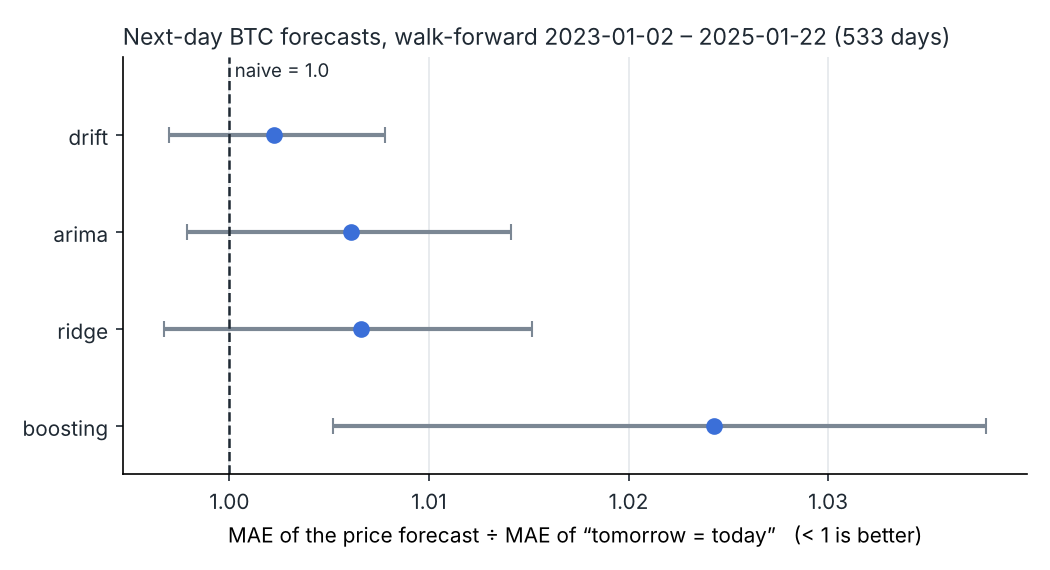
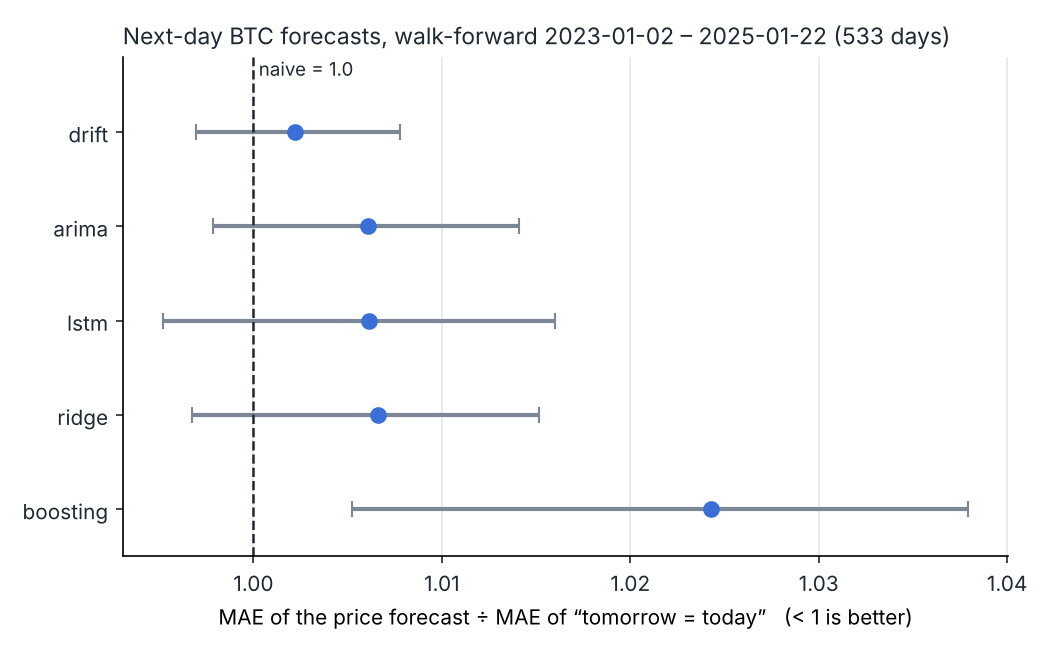
Add LSTM results from a full walk-forward run
Claude-Session: https://claude.ai/code/session_01EweAh3tukoWjEzvTWSQgTX

diff --git a/README.md b/README.md
@@ -1,6 +1,6 @@
 # btc-forecast-eval
 
-**Can you forecast Bitcoin?** Five forecasters — from "tomorrow = today" to ARIMA, linear models and gradient boosting (LSTM optional) — compared on two years of daily BTC/USD with walk-forward evaluation. Plus the three mistakes that make Bitcoin forecasts in tutorials look accurate, each measured next to its honest version.
+**Can you forecast Bitcoin?** Six forecasters — from "tomorrow = today" to ARIMA, linear models, gradient boosting and an LSTM — compared on two years of daily BTC/USD with walk-forward evaluation. Plus the three mistakes that make Bitcoin forecasts in tutorials look accurate, each measured next to its honest version.
 
 🇵🇱 *Czy da się przewidzieć kurs bitcoina? Uczciwe porównanie modeli na danych dziennych z testem kroczącym oraz trzy błędy, przez które prognozy z tutoriali wyglądają na trafne.*
 
@@ -8,8 +8,8 @@
 
 **Key results** (test period 2023-01-02 – 2025-01-22, 533 trading days)
 
-- **No model beats the naive forecast** ("tomorrow's price = today's"). The best, drift, is 0.2% worse on MAE; boosting is 2.4% worse, and that difference is significant.
-- **Direction is a coin flip:** 49.5–51.2% of days called correctly, vs 51.2% for "always up".
+- **No model beats the naive forecast** ("tomorrow's price = today's"). The best, drift, is 0.2% worse on MAE; the LSTM 0.6%; boosting 2.4%, and that difference is significant.
+- **Direction is a coin flip:** 49.0–51.2% of days called correctly, vs 51.2% for "always up".
 - **The same data with a leaky setup gives 72% accuracy;** the honest version 50.5%.
 - **Stock-to-Flow** fitted to 2019 (R² 0.91) predicted ~$895k for January 2025; the price was $104k.
 
@@ -34,8 +34,9 @@ Each model is refitted every 21 trading days on all data since 2014 that precede
 | ARIMA(1,0,1) on returns | 1144 | 1.006 | 0.998–1.014 | 0.28 | 49.5% | +399% |
 | ridge on lagged returns | 1145 | 1.007 | 0.997–1.015 | 0.64 | 49.7% | +303% |
 | gradient boosting | 1165 | 1.024 | 1.005–1.038 | 1.00 | 49.9% | +302% |
+| LSTM (30-day window, TensorFlow) | 1144 | 1.006 | 0.995–1.016 | 0.53 | 49.0% | +269% |
 
-"Always up" hits 51.2% of days; buy & hold returned +529%. Drift is always positive in a bull market, so its long/flat rule *is* buy & hold. Every model that tries to time the market does worse than holding, even before trading costs. The Diebold–Mariano test (squared return errors vs naive) finds no model significantly better at 5%.
+"Always up" hits 51.2% of days; buy & hold returned +529%. Drift is always positive in a bull market, so its long/flat rule *is* buy & hold. Every model that tries to time the market does worse than holding, even before trading costs. The neural network is no exception: the LSTM lands in the same place as ARIMA and ridge. The Diebold–Mariano test (squared return errors vs naive) finds no model significantly better at 5%.
 
 This is what an efficient, near-random-walk market looks like. A forecast that beats "tomorrow = today" by a large margin on daily data almost always has a leak.
 
